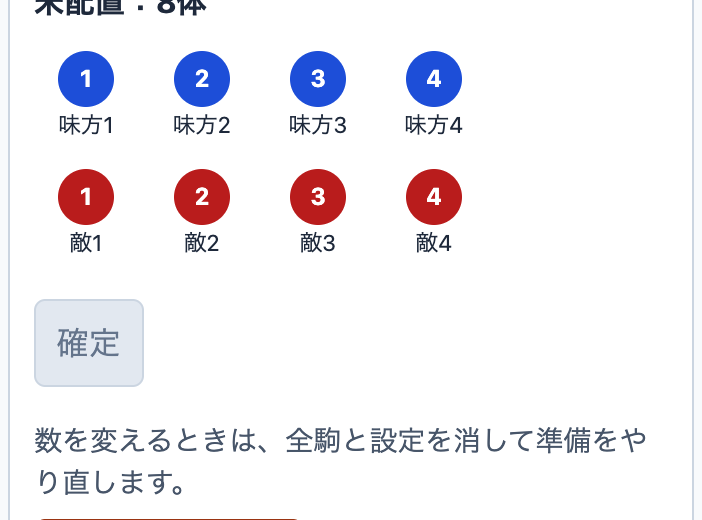
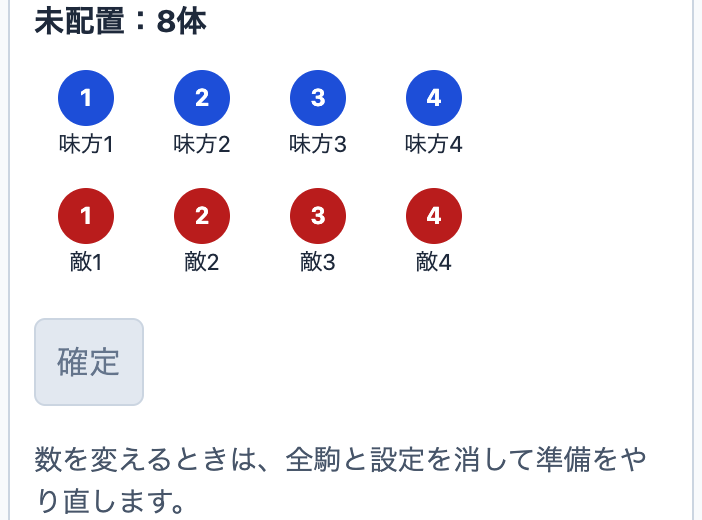
docs: recrop the before-selection screenshot of the panel plan so its heading is not cut (#17)

diff --git a/docs/design.md b/docs/design.md
@@ -135,7 +135,7 @@ paginate: true
 |---|---|
 | [human-decisions.png](../slides/assets/issue-5-codex/human-decisions.png) | Issue #5 で新規生成し縮小した透過 PNG（記録は [説明書](design-samples/issue-5-codex.md)）。Issue #8 では本編5枚目からそのまま再利用し、Issue #9 では次章の工程のページ（Issue #17 の前提追加後の9・11・14枚目）に小さく（120×80px）再利用した。再生成・編集はしていない |
 | [issue-5-compare/](../slides/assets/issue-5-compare/) の3枚 | Issue #17 で次章の実例を差し替えたため、本編からは参照していない。#9 の比較記録として残す。Issue #9 で、次章の比較用に作った縮小画像。`pr6-c332c37-human.png`・`pr7-b3e0c3e-human.png` は、Issue #5 の各 PR の当時の版を `git archive` で取り出し、`npx marp --no-stdin --allow-local-files --images png` で元の5枚目（人間の判断のページ）を 1280×720 に描いた画像。`pr6-3480008-human.png` は採用修正版の記録 `docs/design-samples/issue-5-codex-preview/03-human.png`（同じ手順で 3480008 から描いた画像とバイト単位で一致）。どれも `sips -z 360 640` で 640×360 に縮小しただけ。ファイル名の SHA が版を示す |
-| [issue-37-board/](../slides/assets/issue-37-board/) の5枚 | Issue #17 で、次章の実例（overstrata-board #37）用に撮影した画面。公開リポジトリを一時ディレクトリへ新たに clone し、各版を git worktree で取り出して `npm ci --ignore-scripts` → `npx vite --port 5290〜5292 --strictPort` で起動した（Docker と元プロジェクトの作業環境は使っていない。撮影後に停止）。Playwright（同リポジトリの `@playwright/test` 1.64.1）とインストール済みの Chrome で、表示幅 375×667・deviceScaleFactor 2 で撮影し、範囲を切り抜いた。`board-c276d11.png`: #37 着手前の main `c276d11` で味方2・敵2を用意し、味方1を (3,4)・味方2を (2,7)・敵1を (8,3)・敵2を (9,6) に置いて味方1を選んだ状態の盤面（CSS px で x0・y105・375×351）。`pr41-526f8f8.png`・`pr40-b1902c4.png`: 比較した版（PR #41 `526f8f8`／PR #40 `b1902c4`）で味方4・敵4を用意し、未配置の味方2を選んだ直後。設定欄と未配置ボタンの外接矩形に余白12px（#41 は x12・y693・351×305。#40 は x12・y641・351×305 で撮り、下の確定ボタンが写らないよう `sips -c 520 702 --cropOffset 0 0` で上から 351×260 に切った）。縮小・注記・色付けはしていない。`pr41-526f8f8-before.png`・`pr40-b1902c4-before.png`: 同じ版で味方4・敵4を用意した直後（まだ駒を選んでいない）。Issue #17 の実機確認で人間が「駒を触る前の画像もあるとわかりやすい」と伝えたため追加した。公開リポジトリを一時ディレクトリへ新たに clone し直し、同じ手順（`npm ci --ignore-scripts`、`npx vite --port 5290`・`5291 --strictPort`、同じ Playwright・Chrome・表示幅）で撮った。切り抜きは選んだ直後と同じ矩形（#41 は x12・y693・351×305、#40 は x12・y641・351×305 から `sips` で上の 351×260）。このとき撮り直した選んだ直後の2枚は、既存の2枚と画素が一致したので、既存のファイルをそのまま使っている。採用版 `629709a` は `b1902c4` との差分が README だけなので、別に撮っていない。ファイル名の SHA が版を示す |
+| [issue-37-board/](../slides/assets/issue-37-board/) の5枚 | Issue #17 で、次章の実例（overstrata-board #37）用に撮影した画面。公開リポジトリを一時ディレクトリへ新たに clone し、各版を git worktree で取り出して `npm ci --ignore-scripts` → `npx vite --port 5290〜5292 --strictPort` で起動した（Docker と元プロジェクトの作業環境は使っていない。撮影後に停止）。Playwright（同リポジトリの `@playwright/test` 1.64.1）とインストール済みの Chrome で、表示幅 375×667・deviceScaleFactor 2 で撮影し、範囲を切り抜いた。`board-c276d11.png`: #37 着手前の main `c276d11` で味方2・敵2を用意し、味方1を (3,4)・味方2を (2,7)・敵1を (8,3)・敵2を (9,6) に置いて味方1を選んだ状態の盤面（CSS px で x0・y105・375×351）。`pr41-526f8f8.png`・`pr40-b1902c4.png`: 比較した版（PR #41 `526f8f8`／PR #40 `b1902c4`）で味方4・敵4を用意し、未配置の味方2を選んだ直後。設定欄と未配置ボタンの外接矩形に余白12px（#41 は x12・y693・351×305。#40 は x12・y641・351×305 で撮り、下の確定ボタンが写らないよう `sips -c 520 702 --cropOffset 0 0` で上から 351×260 に切った）。縮小・注記・色付けはしていない。`pr41-526f8f8-before.png`・`pr40-b1902c4-before.png`: 同じ版で味方4・敵4を用意した直後（まだ駒を選んでいない）。Issue #17 の実機確認で人間が「駒を触る前の画像もあるとわかりやすい」と伝えたため追加した。公開リポジトリを一時ディレクトリへ新たに clone し直し、同じ手順（`npm ci --ignore-scripts`、`npx vite --port 5290`・`5291 --strictPort`、同じ Playwright・Chrome・表示幅）で撮った。切り抜きは、#41 は選んだ直後と同じ矩形（x12・y693・351×305）。#40 は、選んだ直後と同じ矩形では上端で「未配置：8体」の見出しが半分切れたため、撮影時に保存した全ページ画像（fullPage）から、見出しの上に少し余白を取った x12・y654・351×260（CSS px。画素では x24・y1308・702×520）を `sips -c 520 702 --cropOffset 1308 24` で切り抜き直した（大きさは前と同じ。上端・下端で文字が途中で切れない。下の「準備をやり直す」ボタンは写らない）。このとき撮り直した選んだ直後の2枚は、既存の2枚と画素が一致したので、既存のファイルをそのまま使っている。採用版 `629709a` は `b1902c4` との差分が README だけなので、別に撮っていない。ファイル名の SHA が版を示す |
 | [roles/po.png](../slides/assets/roles/po.png)・[team.png](../slides/assets/roles/team.png)・[developer-1.png](../slides/assets/roles/developer-1.png)・[developer-2.png](../slides/assets/roles/developer-2.png) | Issue #12 で新規生成した透過 PNG。生成は Codex CLI の組み込み画像生成（`codex exec` の `$imagegen`、2026-10-28）で、画風の参照に human-decisions.png、人物をそろえる参照に先に作った po.png（開発者2人目は developer-1.png も）を渡した。team.png は同じ生成の中で Codex が右手の位置を直している。編集は macOS の `sips -z 400 400` による 1254×1254 から 400×400 への縮小だけ（1:1 と透過を保持） |
 
 ## 役割の人物

diff --git a/slides/index.md b/slides/index.md
@@ -577,7 +577,7 @@ overstrata-board の実例:
   - PR #41 は満たす。ただし、一覧の並びが組み替わって誤タップにつながる点と、盤面では欄が周りの18マスを覆う点が、推奨の指摘になった
 - この画像は比べた時点の版で、採用後の版ではありません。製品名は担当を示すだけで、モデルの優劣を比べたものではありません
 
-画像: overstrata-board の各版（PR #41 は 526f8f8、PR #40 は b1902c4）を手元で起動し、スマホ幅 375×667（2倍の解像度）で撮影。各案2枚で、「触る前」は味方4・敵4を用意した直後（まだ駒を選んでいない）、「選んだ直後」はそこから未配置の味方2を選んだ直後。切り抜く範囲は、選んだ直後の設定欄と未配置一覧を囲む範囲（横351 CSS px、縦は PR #41 が305・PR #40 が260）で、触る前も同じ範囲で切り抜いた。そのため操作パネル案の触る前の画像は、一覧が上にある分、上端で「未配置：8体」の見出しが切れ、下に確定ボタンと説明文が写る。切り抜いただけで、注記や色付けはしていない。触る前の2枚は Issue #17 の実機確認（人間の「駒を触る前の画像もあるとわかりやすい」）を受けて追加した。
+画像: overstrata-board の各版（PR #41 は 526f8f8、PR #40 は b1902c4）を手元で起動し、スマホ幅 375×667（2倍の解像度）で撮影。各案2枚で、「触る前」は味方4・敵4を用意した直後（まだ駒を選んでいない）、「選んだ直後」はそこから未配置の味方2を選んだ直後。切り抜く範囲は、選んだ直後の設定欄と未配置一覧を囲む範囲（横351 CSS px、縦は PR #41 が305・PR #40 が260）。駒の近く案の触る前も同じ範囲で切り抜いた。操作パネル案の触る前は、同じ範囲だと一覧が上にある分、上端で「未配置：8体」の見出しが半分切れるため、同じ大きさ（351×260）のまま、見出しの上に少し余白を取る位置（全ページ画像の y654）で切り抜き直した。下に確定ボタンと説明文が写る。切り抜いただけで、注記や色付けはしていない。触る前の2枚は Issue #17 の実機確認（人間の「駒を触る前の画像もあるとわかりやすい」）を受けて追加した。
 
 【時間】約75秒（見積もり。触る前の画像の説明で60秒から増やした）
 
